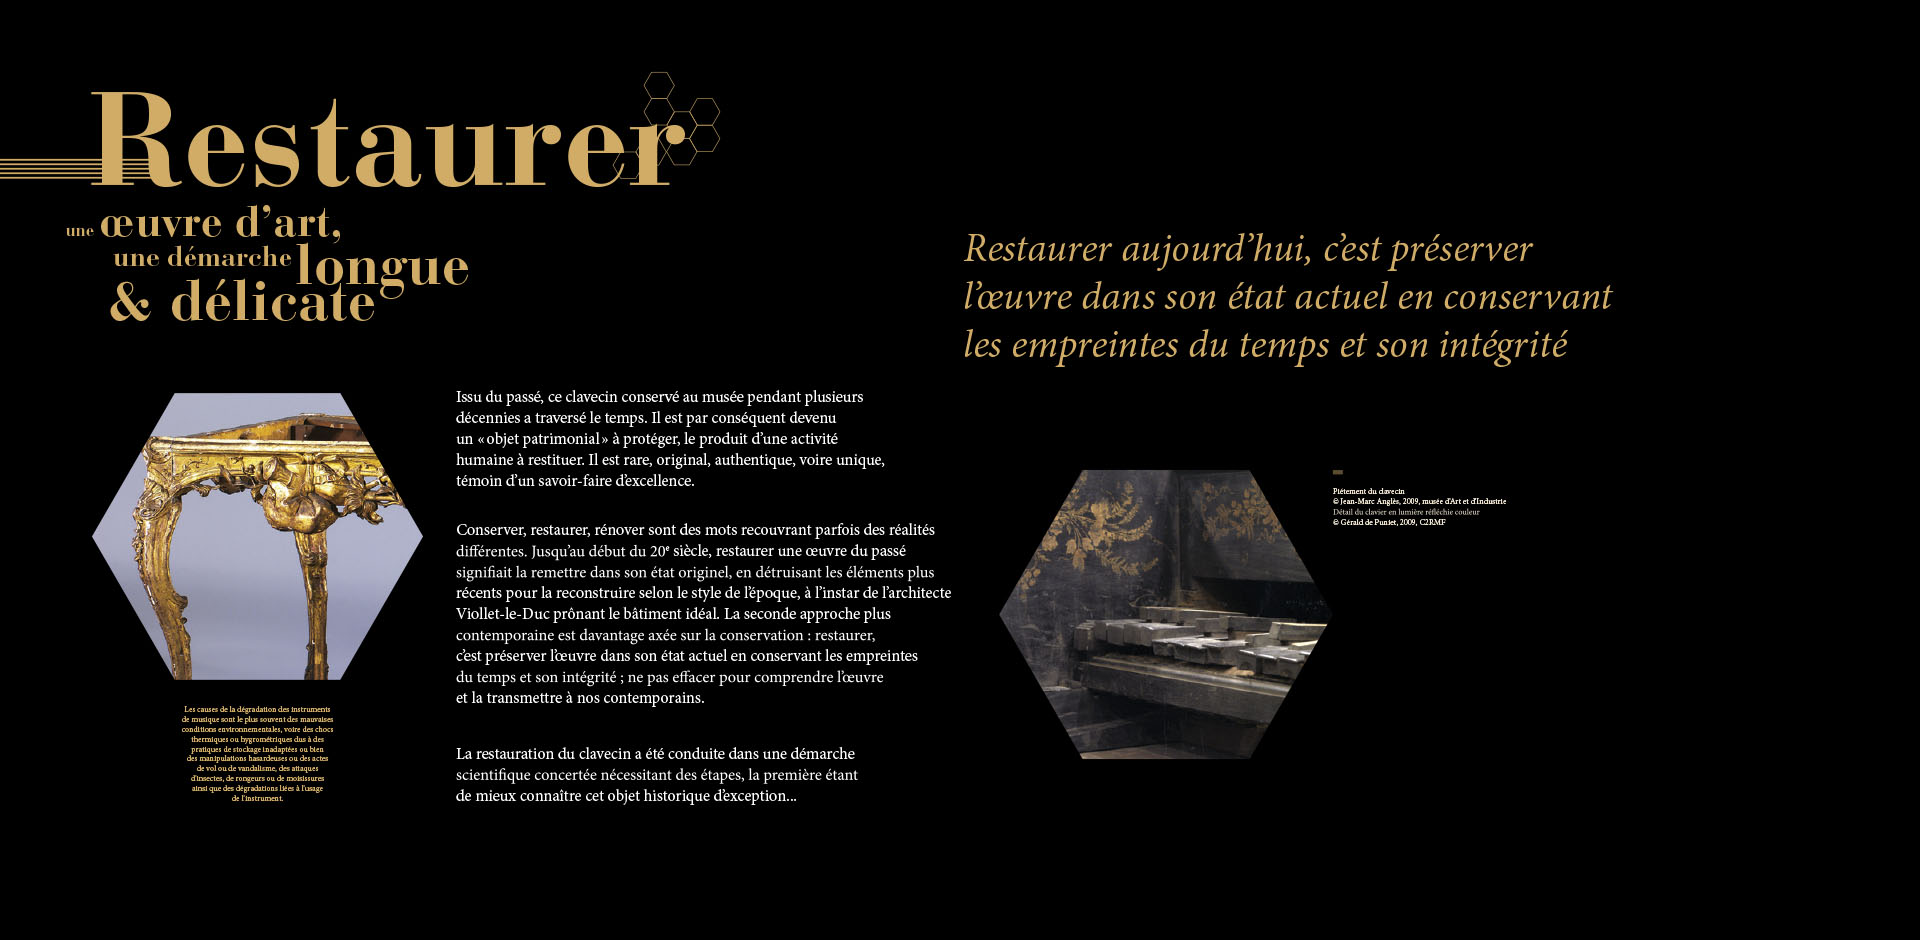
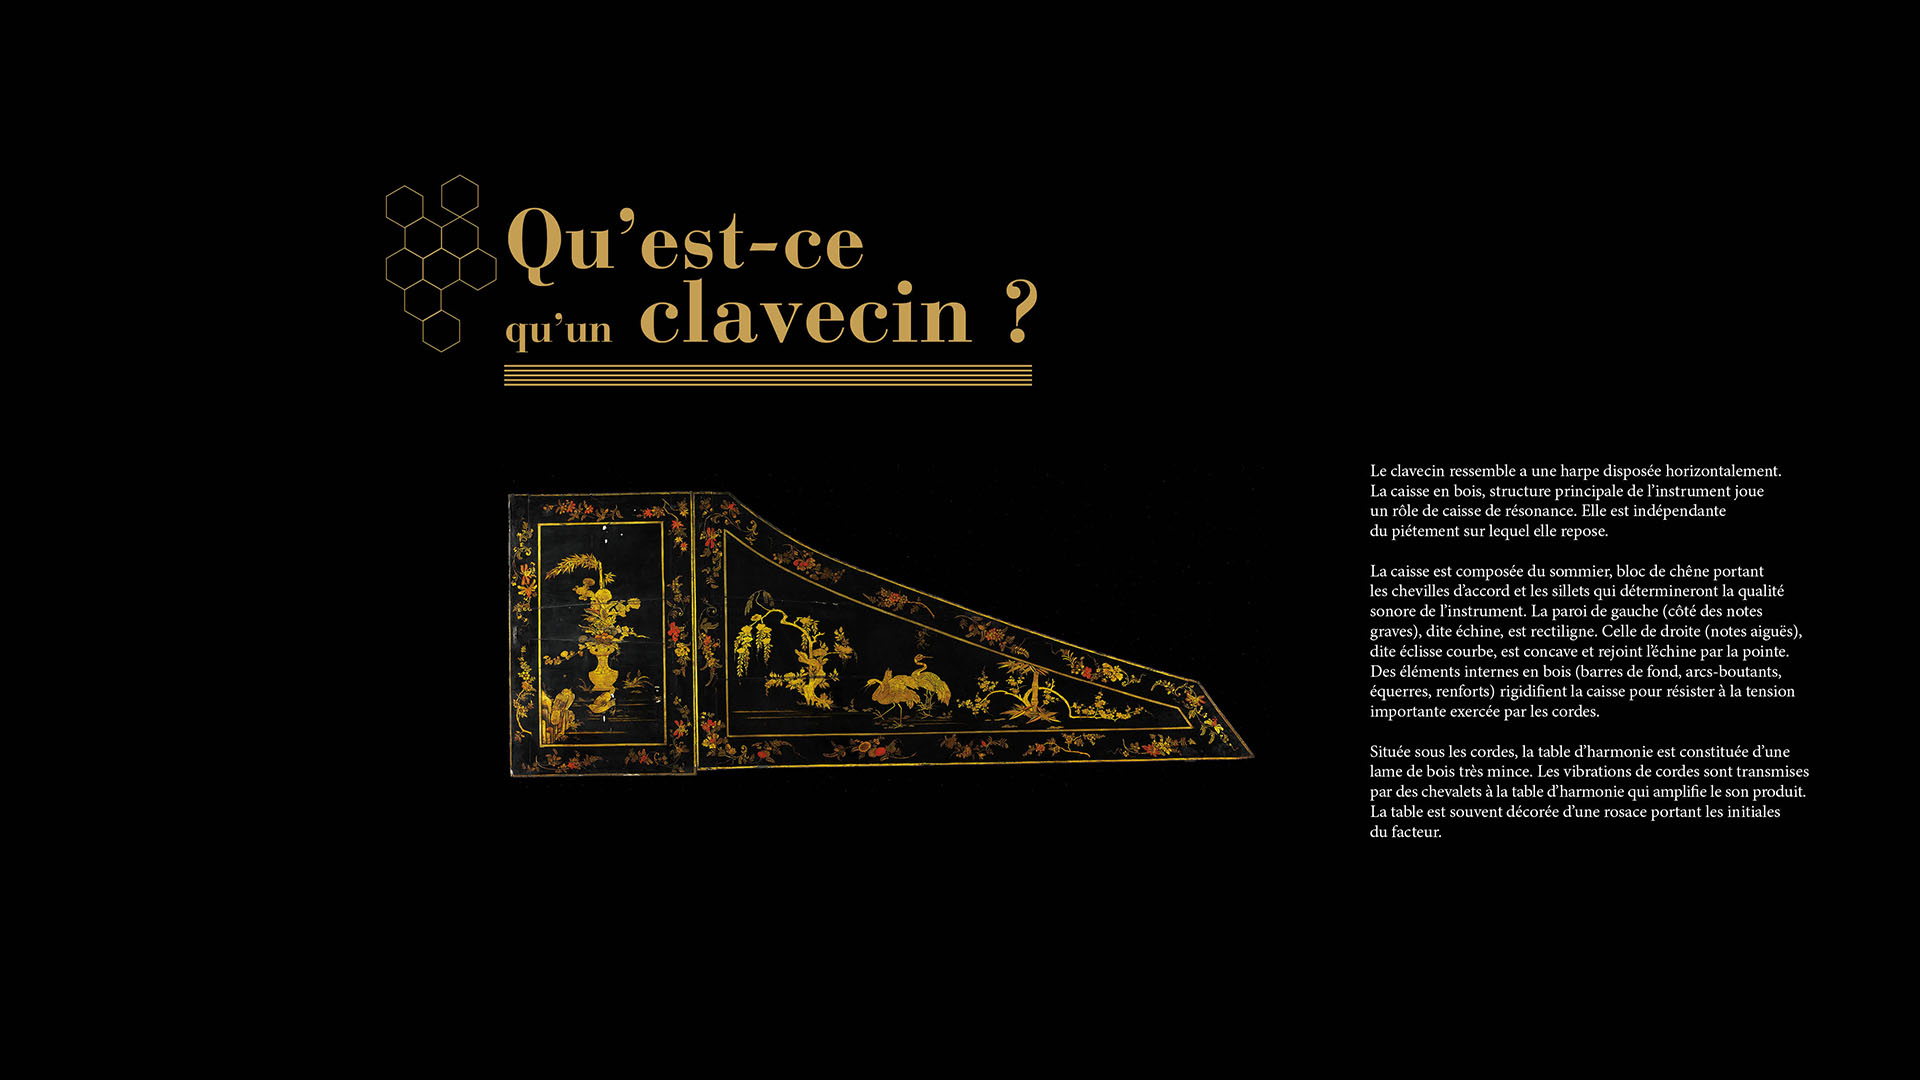
intégration images maté

Changed region(s): [[0.0312, 0.4011, 0.9375, 0.8638], [0.0, 0.0926, 0.8438, 0.4011], [0.25, 0.8021, 0.4375, 0.8638]]

diff --git a/index.html b/index.html
@@ -55,8 +55,14 @@
 		<div id="bck-img-container" style="display:none">
 			<img id="resto-1-img" class="bck-img" src="contents/resto/resto-1.jpg">
 			<img id="resto-2-img" class="bck-img" src="contents/resto/resto-2.jpg">
+			<img id="resto-3-img" class="bck-img" src="contents/resto/resto-3.jpg">
+			<img id="resto-4-img" class="bck-img" src="contents/resto/resto-4.jpg">
+			<img id="resto-5-img" class="bck-img" src="contents/resto/resto-5.jpg">
+			<img id="resto-6-img" class="bck-img" src="contents/resto/resto-6.jpg">
+			<img id="resto-7-img" class="bck-img" src="contents/resto/resto-7.jpg">
 			<img id="qqc-1-img" class="bck-img" src="contents/qqc/qqc-1.jpg">
 			<img id="qqc-2-img" class="bck-img" src="contents/qqc/qqc-2.jpg">
+			<img id="qqc-3-img" class="bck-img" src="contents/qqc/qqc-3.jpg">
 			<img id="ipad-img" class="bck-img" src="contents/ipad/bck.jpg">
 		</div>
 		<div id="ui">

diff --git a/contents/resto/content.html b/contents/resto/content.html
@@ -13,9 +13,9 @@
     <div class="col-md-12">
 		<p><a id="resto-1" class="restoItem">Les acteurs</a></p>
 		<p><a id="resto-2" class="restoItem">Restaurer une oeuvre d'art</a></p>
-		<p><a id="resto-3" class="restoItem">Des spécialistes</a></p>
+		<p><a id="resto-3" class="restoItem">Des spécialistes et scientifiques</a></p>
 		<p><a id="resto-4" class="restoItem">Conserver la laque</a></p>
-		<p><a id="resto-5" class="restoItem">Conserver le piètement</a></p>
+		<p><a id="resto-5" class="restoItem">La consolidation du piètement</a></p>
 		<p><a id="resto-6" class="restoItem">Restaurer les laques</a></p>
 		<p><a id="resto-7" class="restoItem">Consolider le piètement</a></p>
 		<p><a id="film" class="restoItem">Film</a></p>

diff --git a/main.css b/main.css
@@ -8,7 +8,8 @@ body{
 	margin: 0px;
 	padding:0px;
 	overflow: hidden;
-	background-color: #9C9C9C;
+	/*background-color: #9C9C9C;*/
+	background-color: #000000;
 	font-family: 'MinimumANoir';
 	font-size:18px;
 	-webkit-touch-callout: none;

diff --git a/main.js b/main.js
@@ -59,8 +59,8 @@ loadTechElements();
 
 
 init();
-//animate();
-//haveaNapIfnoSnap();
+animate();
+haveaNapIfnoSnap();
 
 
 function init() {
